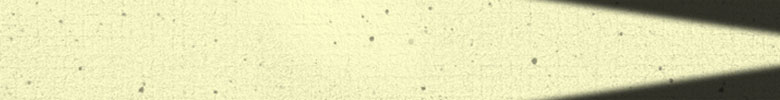
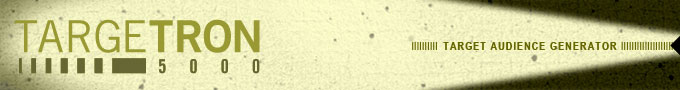
art assets added

diff --git a/public/stylesheets/main.css b/public/stylesheets/main.css
@@ -1,8 +1,10 @@
 body
 { 
 	background: black;
+	font-family: Helvetica, Arial, sans-serif;
 }
-body * {
+body *
+{
 	-webkit-box-sizing: border-box;
 	-moz-box-sizing: border-box;
 	-o-box-sizing: border-box;
@@ -17,22 +19,25 @@ body * {
 	clear: both;
 }
 
+.section
+{
+	background: #999;
+	margin: 10px;
+	float: left;
+}
+
 /*  Header Area  */
 
 #header
 {
-	height: 100px;
+	height: 90px;
 	background: url(../images/targetron_header.jpg) no-repeat;
 	width: 680px;
-}
-#header img
-{
-	margin-top: 8px;
 }
 #little_machine
 {
 	width: 120px;
-  	height: 100px;
+  	height: 90px;
 	cursor: pointer;
 	background: url(../images/targetron_machine_small.jpg) no-repeat;
 }
@@ -43,8 +48,28 @@ body * {
 {
 	width: 260px;
 	height: 200px;
-	cursor: pointer;
 	background: url(../images/targetron_machine.jpg) no-repeat;
+	position: relative;
+}
+#activate_button {
+	top: -8px;
+	left: -16px;
+	width: 270px;
+	height: 190px;
+	-webkit-transform-origin: center center;
+	-moz-transform-origin: center center;
+	transform-origin: center center;
+	position: absolute;
+	background: url(../images/activate_button.png) 0 0 no-repeat;
+	cursor: pointer;
+}
+#activate_button:hover {
+	background-position: 0 -190px;
+	-webkit-transform: rotate(-15deg);
+	-webkit-transition: -webkit-transform 0.25s ease-out;
+	-moz-transform: rotate(-15deg);
+	-moz-transition: -moz-transform 0.25s ease-out;
+	transform: rotate(-15deg);
 }
 
 #audience
@@ -52,10 +77,55 @@ body * {
 	width: 540px;
 	height: 200px;
 	background: url(../images/targetron_audience.jpg) no-repeat;
-	padding: 20px;
+	position: relative;
 }
 
-/* Blocks */
+#target_acquired {	
+	position: absolute;
+	width: 200px;
+	height: 60px;
+	background: transparent url(../images/triangle.png) center top no-repeat;
+	border-bottom: 4px solid black;
+	left: -200px;
+	padding-top: 22px;
+	text-align: center;
+	-webkit-transform: rotate(270deg);
+	-moz-transform: rotate(270deg);
+	-o-transform: rotate(270deg);
+	filter: progid:DXImageTransform.Microsoft.BasicImage(rotation=3);
+    -webkit-transform-origin: top right;
+    -moz-transform-origin: top right;
+	-o-transform-origin: top right;
+	text-transform: uppercase;
+	font-weight: 700;
+}
+
+#audience h2 {
+	margin: 50px 20px 20px 83px;
+	font-size: 1.5em;
+	font-family: 'Francois One', Helvetica, Arial, sans-serif;
+	text-transform: uppercase;
+	font-weight: 400;
+	color: #242a69;
+	line-height: 1.3em;
+}
+
+#share_target {
+	width: 143px;
+	height: 30px;
+	font-size: 0.75em;
+	line-height: 22px;
+	position: absolute;
+	right: 0;
+	padding-top: 3px;
+	text-align: center;
+	background: transparent url(../images/share_target.png) center top no-repeat;
+	cursor: pointer;
+	text-transform: uppercase;
+	font-weight: 700;
+}
+
+/*  Blocks  */
 
 #block_area {
 	width: 820px;
@@ -70,7 +140,34 @@ body * {
 }
 .block {
 	height: 135px;
-	padding: 5px;
+	padding: 10px;
+	text-transform: uppercase;
+	word-wrap: break-word;
+	overflow: hidden;
+	position: relative;
+}
+.block a:link,
+.block a:visited,
+.block a:hover {
+	color: white;
+	text-decoration: underline;
+}
+.block h5 {
+	font-family: 'Francois One', Helvetica, Arial, sans-serif;
+	font-weight: 400;
+	font-size: 0.925em;
+	line-height: 1em;
+	color: #222;
+	margin-bottom: 20px;
+}
+.block p {
+	font-family: 'Special Elite', Courier, monospace;
+	font-size: 0.925em;
+	font-weight: 700;
+	line-height: 1.25em;
+	color: white;
+	position: absolute;
+	bottom: 10px;
 }
 .one {
 	width: 120px;
@@ -92,15 +189,50 @@ body * {
 }
 
 #media_one, #media_two {
-  background: url(../images/media_bg.jpg) no-repeat;
+	background: url(../images/media_bg.jpg) no-repeat;
 }
-
 #spirit_animal {
-  background: url(../images/spirit_animal_bg.jpg) no-repeat;
+	background: url(../images/spirit_animal_bg.jpg) no-repeat;
+}
+#demographic_one, #demographic_two {
+	background: url(../images/key_statistic_bg.jpg) no-repeat;
+}
+#primary_influencer, #secondary_influencer {
+	background: url(../images/primary_influencer_bg.jpg) no-repeat;
+}
+#hobby {
+	background: url(../images/hobby_bg.jpg) no-repeat;
+}
+#must_have {
+	background: url(../images/cant_live_without_bg.jpg) no-repeat;
+}
+#nick_cage_film {
+	background: url(../images/nick_cage_film_bg.jpg) no-repeat;
+}
+#wisdom {
+	background: url(../images/quote_bg.jpg) no-repeat;
 }
 
-#hobby {
-  background: url(../images/hobby_bg.jpg) no-repeat;
+.stat {
+	width: 115px;
+	font-size: 4em;
+	font-family: "Squada One", Helvetica, Arial, sans-serif;
+	font-weight: 700;
+	color: #222;
+	position: absolute;
+	bottom: 0;
+	left: 10px;
+}
+.support {
+	width: 115px;
+	font-family: 'Special Elite', Courier, monospace;
+	font-size: 0.875em;
+	font-weight: 700;
+	line-height: 1.25em;
+	color: white;
+	position: absolute;
+	bottom: 10px;
+	right: 10px;
 }
 
 /*  Learn More Area  */
@@ -108,19 +240,12 @@ body * {
 #learn_more
 {
 	width: 820px;
-	height: 200px;
 	padding: 20px;
+	margin-top: 15px;
 	background: url(../images/targetron_more.jpg) no-repeat;
 }
 
 /* Generic Classes */
-
-.section
-{
-	background: #999;
-	margin: 10px;
-	float: left;
-}
 
 .first 
 {
@@ -130,7 +255,8 @@ body * {
 {
 	margin-right: 0;
 }
-.last:after {
+.last:after
+{
 	clear: both;
 }
 

diff --git a/public/stylesheets/text.css b/public/stylesheets/text.css
@@ -10,7 +10,7 @@ h1 { font-size: 25px; }
 h2 { font-size:23px; }
 h3 { font-size:21px; }
 h4 { font-size:19px; }
-h5 { font-size:17px; }
+h5 { font-size:16px; }
 h6 { font-size:15px; }
 ol { list-style:decimal; }
 ul { list-style:disc; }
